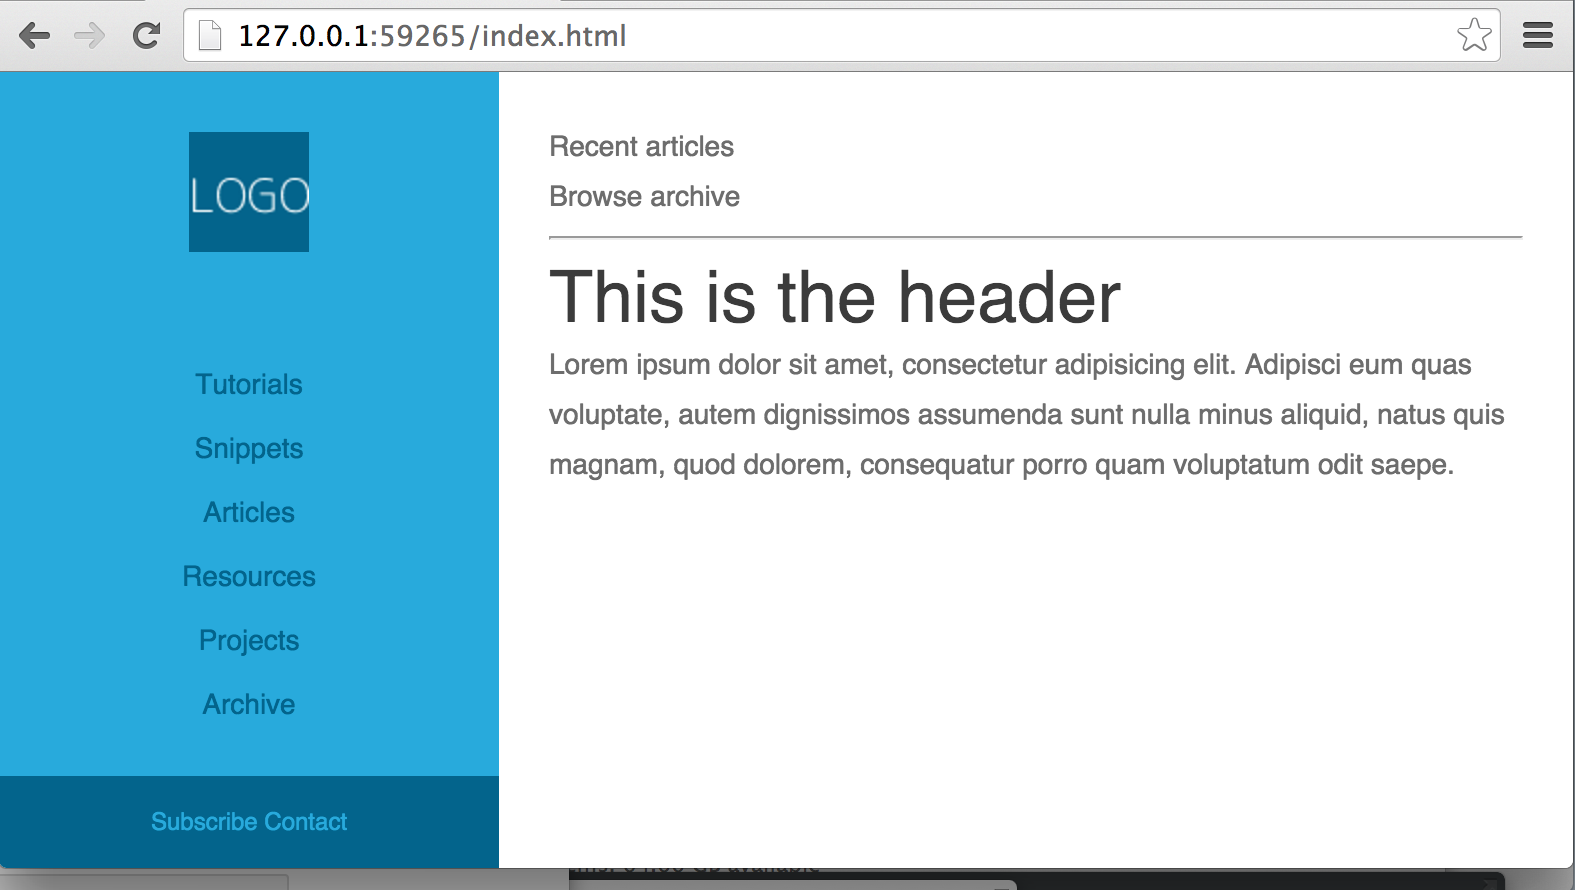
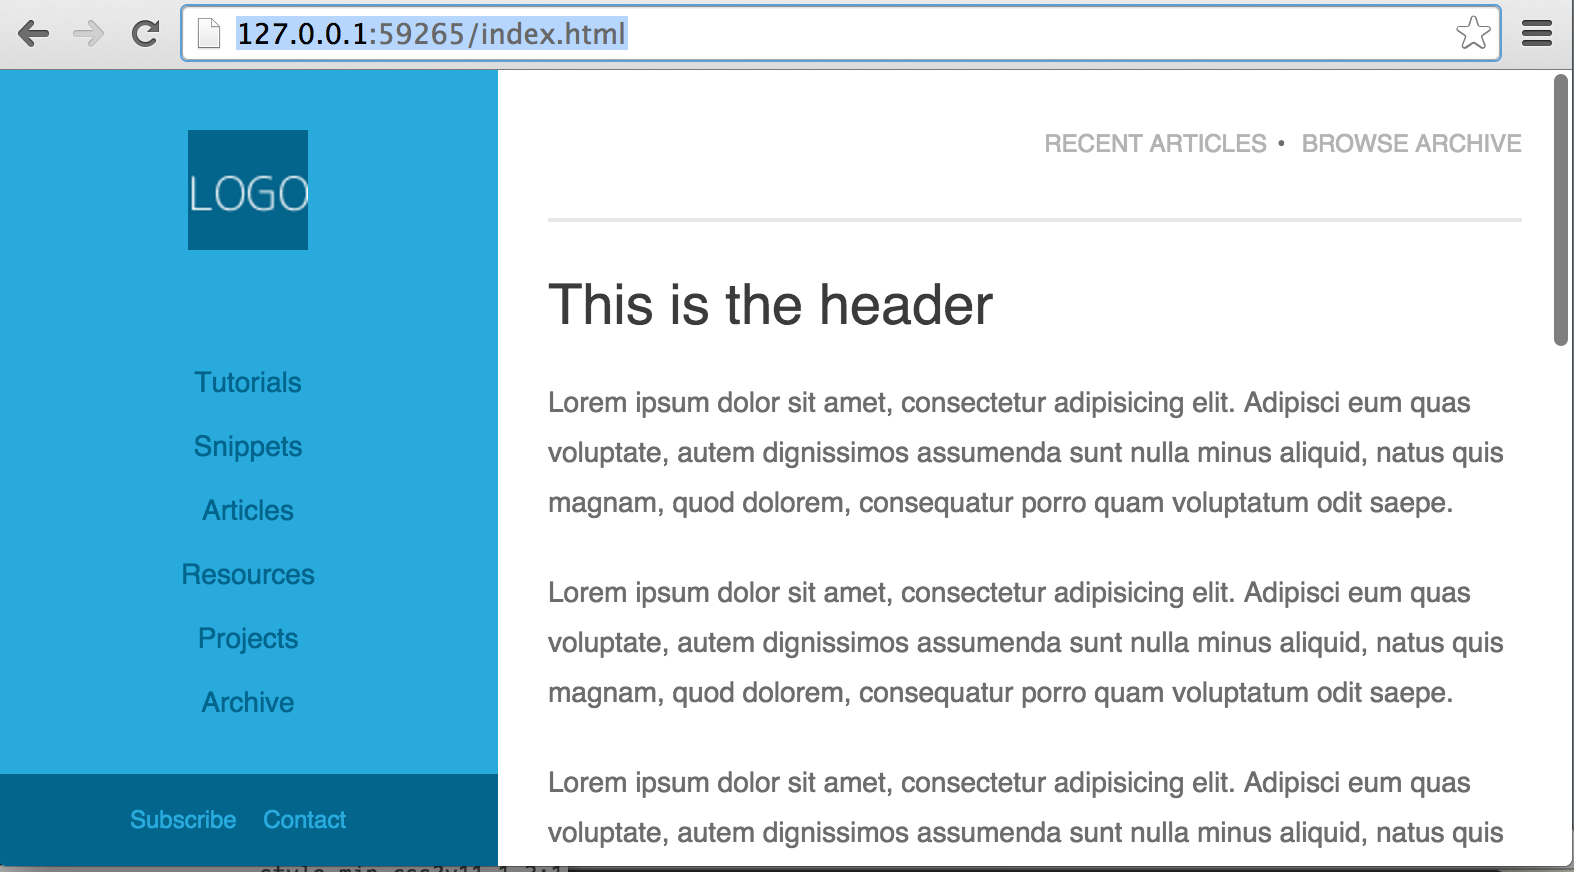
simplify spacing in the content part and update the screenshot

diff --git a/main.css b/main.css
@@ -59,12 +59,16 @@ body {
   font: 14px/25px Helvetica, sans-serif;
 }
 h1 {
+  margin-bottom: 20px;
   color: #3b3b3b;
-  font-size: 36px;
-  line-height: 43px;
+  font-size: 28px;
+  line-height: 34px;
+}
+p {
+  margin-bottom: 20px;
 }
 a {
-  color: #6d6d6d;
+  color: #b3b3b3;
   text-decoration: none;
 }
 
@@ -133,18 +137,7 @@ footer { /* sticky footer */
   margin-right: 10px;
 }
 
-.content {
-  margin: 20px 0;
-}
-.content > h1 {
-  margin-bottom: 20px;
-}
-.content > p {
-  margin-bottom: 20px;
-}
-
 .horizontal {
-  margin-bottom: 20px;
   text-align: right;
   text-transform:uppercase;
   font-size: 12px;
@@ -162,4 +155,11 @@ footer { /* sticky footer */
 }
 .horizontal a:hover {
   color: #3b3b3b;
+}
+
+.separator {
+  height: 2px;
+  margin: 24px 0;
+  border: none;
+  background-color: #e7e7e7;
 }

diff --git a/index.html b/index.html
@@ -37,13 +37,13 @@
     </aside>
 
     <section class="l-main">
-      <div class="main-top">
+      <nav>
         <ul class="horizontal">
           <li><a href="#">Recent articles</a></li>
           <li><a href="#">Browse archive</a></li>
         </ul>
-        <hr>
-      </div>
+      </nav>
+      <hr class="separator">
       <article class="content">
         <h1>This is the header</h1>
         <p>Lorem ipsum dolor sit amet, consectetur adipisicing elit. Adipisci eum quas voluptate, autem dignissimos assumenda sunt nulla minus aliquid, natus quis magnam, quod dolorem, consequatur porro quam voluptatum odit saepe.</p>

diff --git a/README.md b/README.md
@@ -1,4 +1,7 @@
-The layout is made with 'flex-box' usage.
+- the flexbox layout mode is used
+- the left sidebar is always fixed / sticky
+- the content with the top sub-navigation is scrollable
 
 For now it lools like:
+--
 ![](https://raw.githubusercontent.com/AlexKVal/callmenick-layout/master/result.png)
